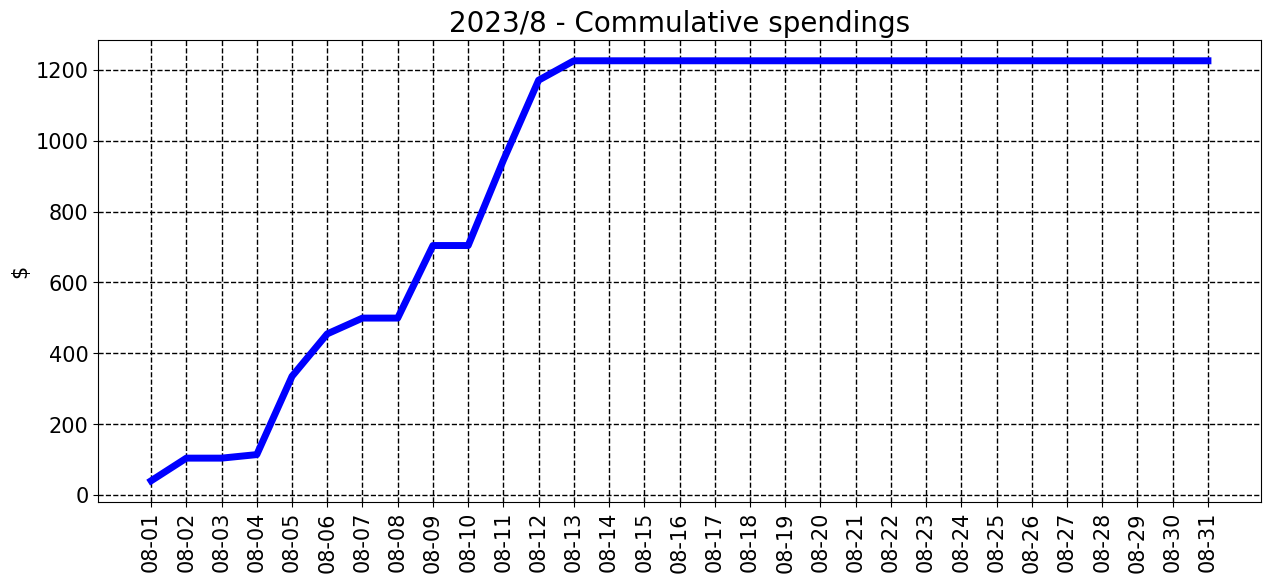
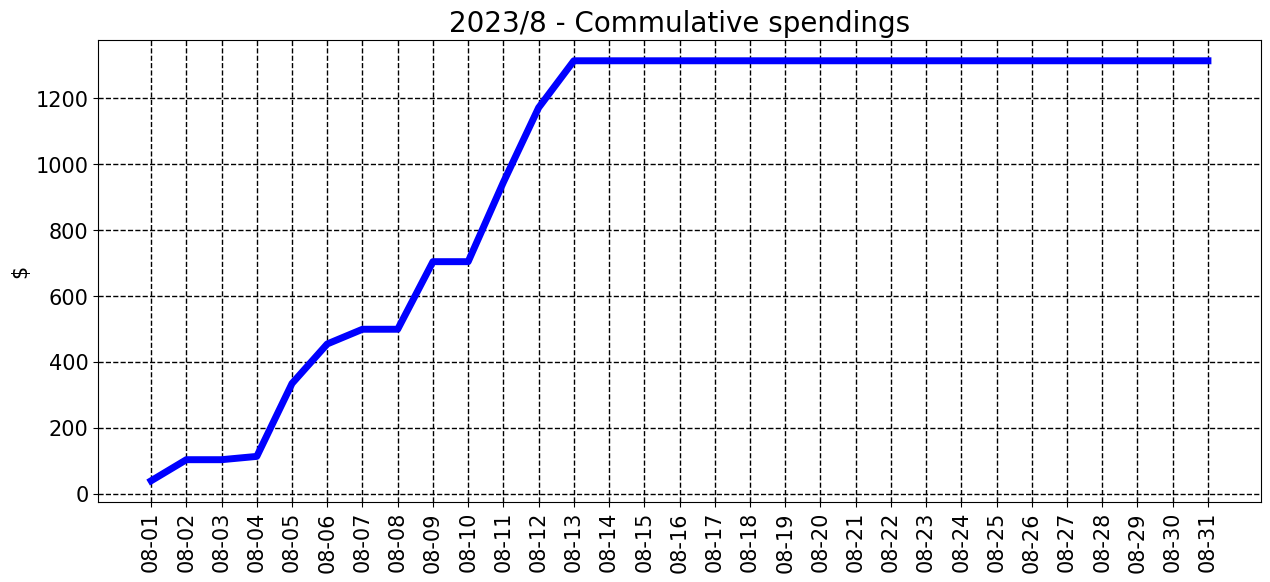
commit from python

Changed region(s): [[0.0307, 0.0928, 1.0, 0.8041], [0.0614, 0.8351, 0.9827, 0.866]]

diff --git a/README.md b/README.md
@@ -7,7 +7,7 @@ __________________________________
 <sub><sup>
 | Spent | Avg daily | End of month projection | Spent since 2023/7 |
 |---|---|---|---|
-| $1226.0  |  $94.3  | $2923.0  |  $1614.0  |
+| $1313.0  |  $101.0  | $3131.0  |  $1701.0  |
 </sub></sup>
 __________________________________
 ![graph_8_sum](graph_8_sum.png)
